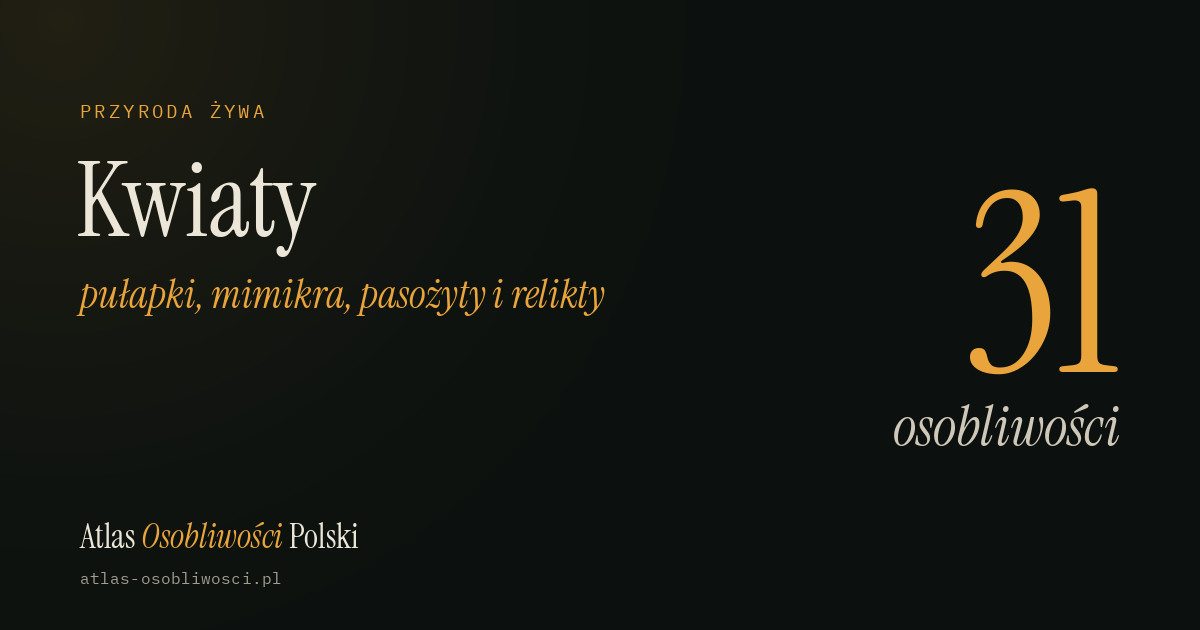
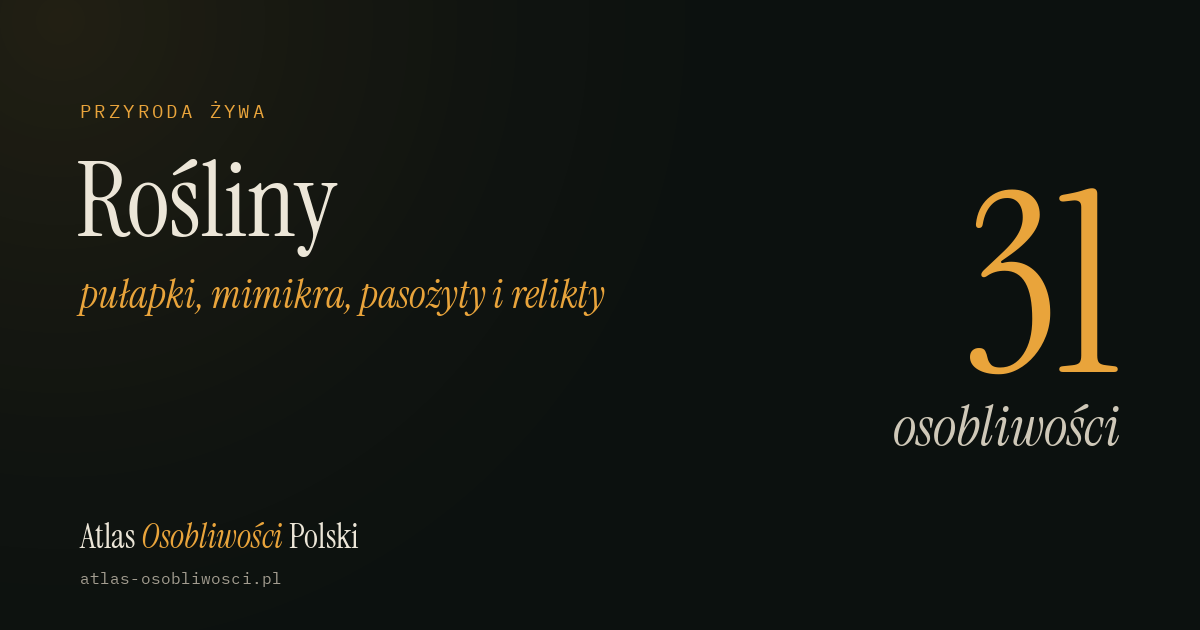
content: "Rośliny" instead of "Kwiaty", sentence-case names, "Underground Sites"
Decisions of 1.11.2026:
- "Kwiaty" becomes "Rośliny" (a teacher's remark: a flower is an organ of a
  plant), with the heading "Osobliwe rośliny Polski" and "Plants" /
  "Unusual Plants of Poland" in English, also in the start page
  description. The address /atlas/kwiaty stays, so shared links keep working.
- "Płazy i gady", "Cuda inżynierii" and "Twierdze i ruiny", as the other
  names are written.
- "Underground Sites" instead of "Undergrounds" (and in a category label).
- A collection with fewer than 5 places on the map shows its count in
  large figures on its link preview image instead of a nearly empty map:
  for now only Skamieniałości (4 places, 32 cards).

The preview images are drawn again for the changed names.

Claude-Session: https://claude.ai/code/session_01TRSco8N3gbNLfCWQxcCetd

Changed region(s): [[0.0617, 0.2413, 0.2775, 0.4222]]

diff --git a/data/i18n.js b/data/i18n.js
@@ -81,7 +81,7 @@
 
   const undergroundCategories = {
     "kopalnie-surowce": { label: "Mines and raw materials", short: "Mines" },
-    "podziemia-wojenne": { label: "Wartime undergrounds", short: "Wartime" },
+    "podziemia-wojenne": { label: "Wartime underground sites", short: "Wartime" },
     "miejskie-piwnice": { label: "Urban cellars", short: "Cellars" },
     "fortyfikacje-schrony": { label: "Fortifications and shelters", short: "Shelters" },
     "tajemnice-legendy": { label: "Mysteries and legends", short: "Mysteries" }
@@ -481,7 +481,7 @@
         footerContact: "Kontakt i zgłoszenia błędów:",
         // What a page says about itself to search engines and link previews. scripts/build-pages.mjs uses the
         // Polish ones for the pages it makes; the app sets them while the reader moves around the atlas.
-        metaStartDescription: "Atlas Osobliwości Polski: grzyby, owady, kwiaty, ryby, ptaki, ssaki, płazy i gady, drzewa, minerały, formacje skalne, architektura drewniana, podziemia, cuda inżynierii, twierdze i ruiny, Memento Mori, rekordy krajobrazu oraz kolejne niezwykłe zjawiska w atlasie, fiszkach, quizie i źródłach.",
+        metaStartDescription: "Atlas Osobliwości Polski: grzyby, owady, rośliny, ryby, ptaki, ssaki, płazy i gady, drzewa, minerały, formacje skalne, architektura drewniana, podziemia, cuda inżynierii, twierdze i ruiny, Memento Mori, rekordy krajobrazu oraz kolejne niezwykłe zjawiska w atlasie, fiszkach, quizie i źródłach.",
         metaStartShare: "Zapraszamy w podróż po kraju dziwów: 19 kolekcji osobliwości polskiej przyrody i kultury, z atlasem, fiszkami, quizem, mapą i źródłami.",
         metaCardDescription: "{hook} Karta z kolekcji {collection} w Atlasie Osobliwości Polski.",
         metaMapTitle: "Mapa Atlasu Osobliwości Polski",
@@ -761,7 +761,7 @@
         reportSubject: "Error on a card: {name} ({collection})",
         reportBody: "Card: {url}\n\nWhat is wrong (ideally with a source):\n",
         footerContact: "Contact and error reports:",
-        metaStartDescription: "Atlas of Polish Curiosities: fungi, insects, flowers, fish, birds, mammals, amphibians and reptiles, trees, minerals, rock formations, wooden architecture, undergrounds, engineering wonders, fortresses and ruins, Memento Mori, landscape records and more unusual phenomena, in an atlas, flashcards, a quiz and sources.",
+        metaStartDescription: "Atlas of Polish Curiosities: fungi, insects, plants, fish, birds, mammals, amphibians and reptiles, trees, minerals, rock formations, wooden architecture, underground sites, engineering wonders, fortresses and ruins, Memento Mori, landscape records and more unusual phenomena, in an atlas, flashcards, a quiz and sources.",
         metaStartShare: "Come on a journey through a land of wonders: 19 collections of curiosities of Polish nature and culture, with an atlas, flashcards, a quiz, a map and sources.",
         metaCardDescription: "{hook} A card from the {collection} collection in the Atlas of Polish Curiosities.",
         metaMapTitle: "Map of the Atlas of Polish Curiosities",
@@ -799,8 +799,8 @@
           get items() { return lazyItemMap("owady"); }
         },
         kwiaty: {
-          title: "Flowers",
-          heading: "Unusual Flowers and Plants of Poland",
+          title: "Plants",
+          heading: "Unusual Plants of Poland",
           subtitle: "31 Polish wild or established plant curiosities: traps, scents, mimicry, parasites and relics.",
           teaser: "traps, mimicry, parasites and relics",
           count_label: "31 curiosities",
@@ -911,7 +911,7 @@
           get items() { return lazyItemMap("architektura-drewniana"); }
         },
         podziemia: {
-          title: "Undergrounds",
+          title: "Underground Sites",
           heading: "Underground Curiosities of Poland",
           subtitle: "30 subterranean curiosities of Poland: salt, flint and silver mines, urban cellars, adits, shelters and the unanswered questions of the Owl Mountains.",
           teaser: "salt and silver mines, adits, the Owl Mountains",

diff --git a/data/collections.js b/data/collections.js
@@ -38,8 +38,8 @@
     {
       id: "kwiaty",
       group: "przyroda-zywa",
-      title: "Kwiaty",
-      heading: "Osobliwe kwiaty i rośliny Polski",
+      title: "Rośliny",
+      heading: "Osobliwe rośliny Polski",
       subtitle: "31 polskich, dziko rosnących lub zadomowionych osobliwości roślinnych: pułapki, zapachy, mimikra, pasożyty i relikty.",
       teaser: "pułapki, mimikra, pasożyty i relikty",
       count_label: "31 osobliwości",
@@ -115,7 +115,7 @@
     {
       id: "plazy-gady",
       group: "przyroda-zywa",
-      title: "Płazy i Gady",
+      title: "Płazy i gady",
       heading: "Osobliwe płazy i gady Polski",
       subtitle: "30 herpetologiczne osobliwości Polski: błękitne gody żaby moczarowej, czosnkowa obrona grzebiuszki, odruch kumaka, grzebienie traszek, nadrzewne rzekotki, reliktowe węże, żółw błotny i inwazyjne żółwie ozdobne.",
       teaser: "błękitne gody żaby moczarowej i czosnkowa obrona grzebiuszki",
@@ -254,7 +254,7 @@
     {
       id: "cuda-inzynierii",
       group: "czlowiek-kultura",
-      title: "Cuda Inżynierii",
+      title: "Cuda inżynierii",
       heading: "Techniczne osobliwości Polski",
       subtitle: "33 techniczne osobliwości Polski: kanały, śluzy, tężnie, radiostacje, hale, zapory, mosty, tunele, koleje i przemysłowe miasta.",
       teaser: "kanały, tężnie, zapory i drewniana wieża radiostacji",
@@ -275,7 +275,7 @@
     {
       id: "twierdze-ruiny",
       group: "czlowiek-kultura",
-      title: "Twierdze i Ruiny",
+      title: "Twierdze i ruiny",
       heading: "Twierdze, ruiny i zapomniane miejsca",
       subtitle: "33 osobliwości twierdz i ruin Polski: miasta idealne, zamki-legendy, twierdze, opuszczone pałace i konstrukcje, które zostały po ambicji.",
       teaser: "miasto idealne, zamki-legendy, pałace-widma",

diff --git a/index.html b/index.html
@@ -5,7 +5,7 @@
   <meta name="viewport" content="width=device-width, initial-scale=1, viewport-fit=cover" />
   <meta name="theme-color" content="#0c110f" />
   <meta name="color-scheme" content="dark" />
-  <meta name="description" content="Atlas Osobliwości Polski: grzyby, owady, kwiaty, ryby, ptaki, ssaki, płazy i gady, drzewa, minerały, formacje skalne, architektura drewniana, podziemia, cuda inżynierii, twierdze i ruiny, Memento Mori, rekordy krajobrazu oraz kolejne niezwykłe zjawiska w atlasie, fiszkach, quizie i źródłach." />
+  <meta name="description" content="Atlas Osobliwości Polski: grzyby, owady, rośliny, ryby, ptaki, ssaki, płazy i gady, drzewa, minerały, formacje skalne, architektura drewniana, podziemia, cuda inżynierii, twierdze i ruiny, Memento Mori, rekordy krajobrazu oraz kolejne niezwykłe zjawiska w atlasie, fiszkach, quizie i źródłach." />
   <title>Atlas Osobliwości Polski</title>
   <link rel="canonical" href="https://www.atlas-osobliwosci.pl/" />
   <link rel="alternate" hreflang="pl" href="https://www.atlas-osobliwosci.pl/" />

diff --git a/data/i18n/cuda-inzynierii.en.js b/data/i18n/cuda-inzynierii.en.js
@@ -1,4 +1,4 @@
-// English card texts of the "Cuda Inżynierii" collection, translated from the Polish card fields.
+// English card texts of the "Cuda inżynierii" collection, translated from the Polish card fields.
 // Loaded with the collection (data/collections.js) and read by data/i18n.js; a card without English
 // text shows the Polish one. Keep them in step with the Polish texts when a card changes.
 window.ATLAS_ITEM_TEXT_EN = window.ATLAS_ITEM_TEXT_EN || {};

diff --git a/data/i18n/twierdze-ruiny.en.js b/data/i18n/twierdze-ruiny.en.js
@@ -1,4 +1,4 @@
-// English card texts of the "Twierdze i Ruiny" collection, translated from the Polish card fields.
+// English card texts of the "Twierdze i ruiny" collection, translated from the Polish card fields.
 // Loaded with the collection (data/collections.js) and read by data/i18n.js; a card without English
 // text shows the Polish one. Keep them in step with the Polish texts when a card changes.
 window.ATLAS_ITEM_TEXT_EN = window.ATLAS_ITEM_TEXT_EN || {};

diff --git a/data/i18n/plazy-gady.en.js b/data/i18n/plazy-gady.en.js
@@ -1,4 +1,4 @@
-// English card texts of the "Płazy i Gady" collection, translated from the Polish card fields.
+// English card texts of the "Płazy i gady" collection, translated from the Polish card fields.
 // Loaded with the collection (data/collections.js) and read by data/i18n.js; a card without English
 // text shows the Polish one. Keep them in step with the Polish texts when a card changes.
 window.ATLAS_ITEM_TEXT_EN = window.ATLAS_ITEM_TEXT_EN || {};

diff --git a/data/i18n/kwiaty.en.js b/data/i18n/kwiaty.en.js
@@ -1,4 +1,4 @@
-// English card texts of the "Kwiaty" collection, translated from the Polish card fields.
+// English card texts of the "Rośliny" collection, translated from the Polish card fields.
 // Loaded with the collection (data/collections.js) and read by data/i18n.js; a card without English
 // text shows the Polish one. Keep them in step with the Polish texts when a card changes.
 window.ATLAS_ITEM_TEXT_EN = window.ATLAS_ITEM_TEXT_EN || {};

diff --git a/scripts/generate-og-image.py b/scripts/generate-og-image.py
@@ -5,7 +5,8 @@ Draws every image that scripts/og-images.mjs lists, in the look of the start pag
 (assets/og-image.png in Polish, assets/og/atlas-en.png in English) with the heading of the start page, and one
 image per collection and language (assets/og/<collection>-<language>.png) with the collection's name and
 teaser. Next to the text is a map of Poland with the places of the atlas or of the collection; a collection
-without places shows its count label (count_label) in large figures instead. Then it writes
+with fewer than 5 places (MIN_MAP_PLACES in scripts/og-images.mjs) shows its count label (count_label) in large
+figures instead. Then it writes
 assets/og/manifest.json: what each image shows and a hash of its file, which the build and npm run
 test:technical compare with the data. Every text is checked to fit and not to touch another.
 Fonts come from fonts/ (SIL Open Font License); the points from data/places/*.places.js (Wikidata, CC0); the

diff --git a/README.md b/README.md
@@ -6,7 +6,7 @@ Projekt wyrósł z atlasu grzybów i jest teraz przygotowany jako wspólna rama 
 
 - **Grzyby**: 60 pozycji z uzupełnionymi zdjęciami i atrybucjami.
 - **Owady**: 30 pozycji ze zdjęciami i atrybucjami z Wikimedia Commons.
-- **Kwiaty**: 31 polskich, dziko rosnących lub zadomowionych osobliwości roślinnych ze zdjęciami i atrybucjami z Wikimedia Commons.
+- **Rośliny**: 31 polskich, dziko rosnących lub zadomowionych osobliwości roślinnych ze zdjęciami i atrybucjami z Wikimedia Commons.
 - **Ryby**: 30 osobliwości polskich wód i ich rubieży ze zdjęciami Wikimedia Commons.
 - **Ptaki**: 32 osobliwości polskiej awifauny ze zdjęciami Wikimedia Commons.
 
@@ -190,7 +190,7 @@ Najprostsza ścieżka:
 - **Ikony i obrazki do udostępniania:** `python scripts/generate-favicons.py` i `python scripts/generate-og-image.py` (wymagają Pillow, a drugi także Node.js).
   - Znak to pochyłe „A” z Instrument Serif.
   - Obrazek atlasu pokazuje nagłówek strony głównej i mapę Polski z punktów atlasu (granice: Natural Earth, domena publiczna).
-  - Każda kolekcja ma własny obrazek: nazwa, opis z szuflady i liczba osobliwości, a obok mapa jej miejsc. Kolekcja bez miejsc na mapie ma zamiast mapy liczbę osobliwości wypisaną dużymi cyframi.
+  - Każda kolekcja ma własny obrazek: nazwa, opis z szuflady i liczba osobliwości, a obok mapa jej miejsc. Kolekcja, która ma mniej niż 5 miejsc na mapie (np. „Skamieniałości”), ma zamiast mapy liczbę osobliwości wypisaną dużymi cyframi.
   - Wszystkie są po polsku i po angielsku (opis niżej, w „Wyszukiwarki i podgląd linków”). Nie ma na nich zdjęć, bo podgląd linku nie zmieści ich podpisów.
 
 ## Zasady treści
